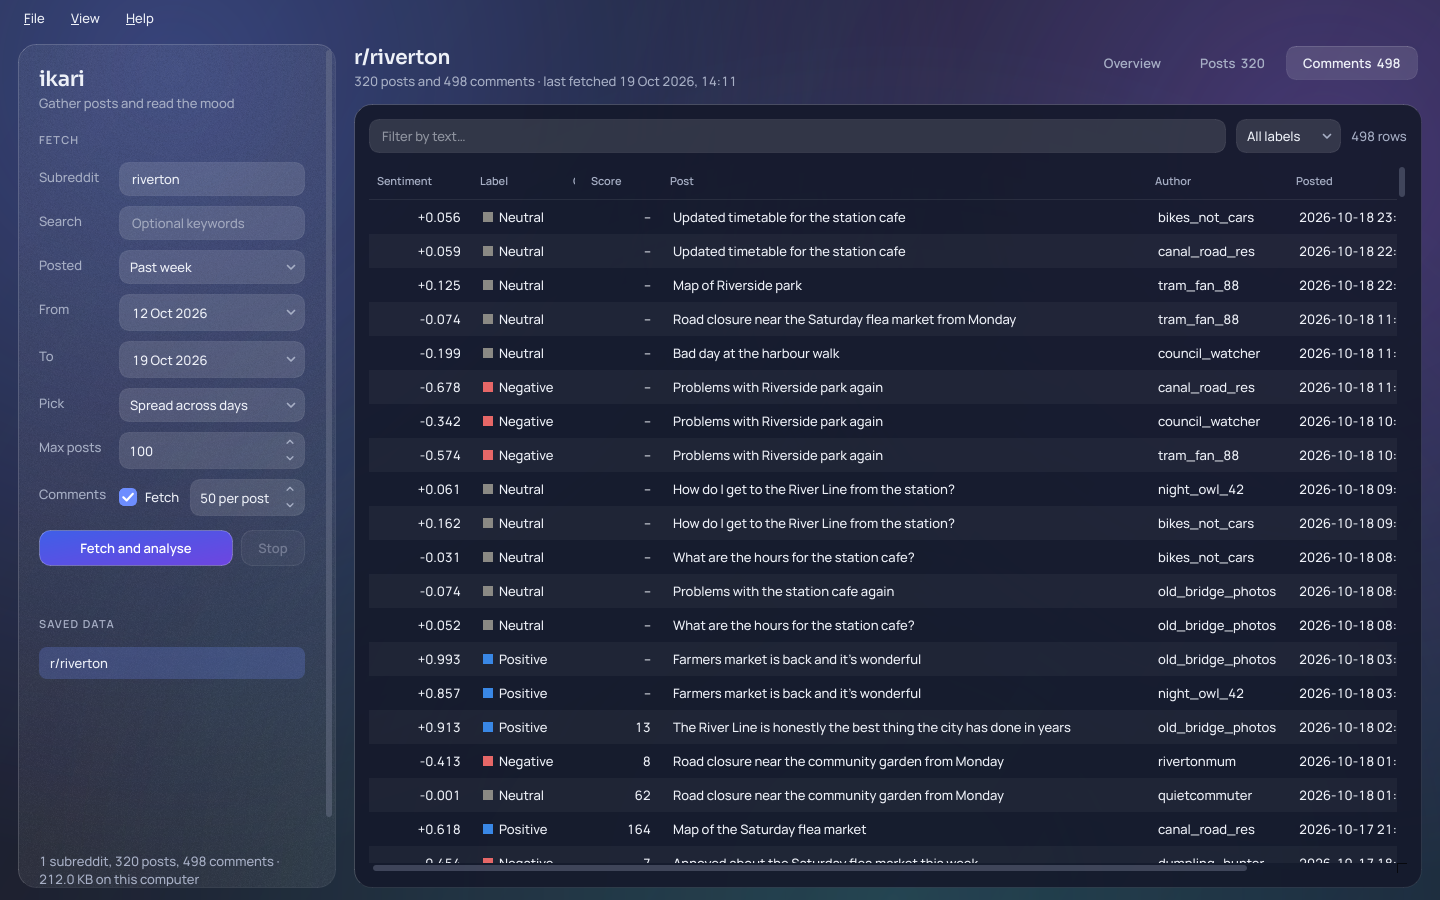
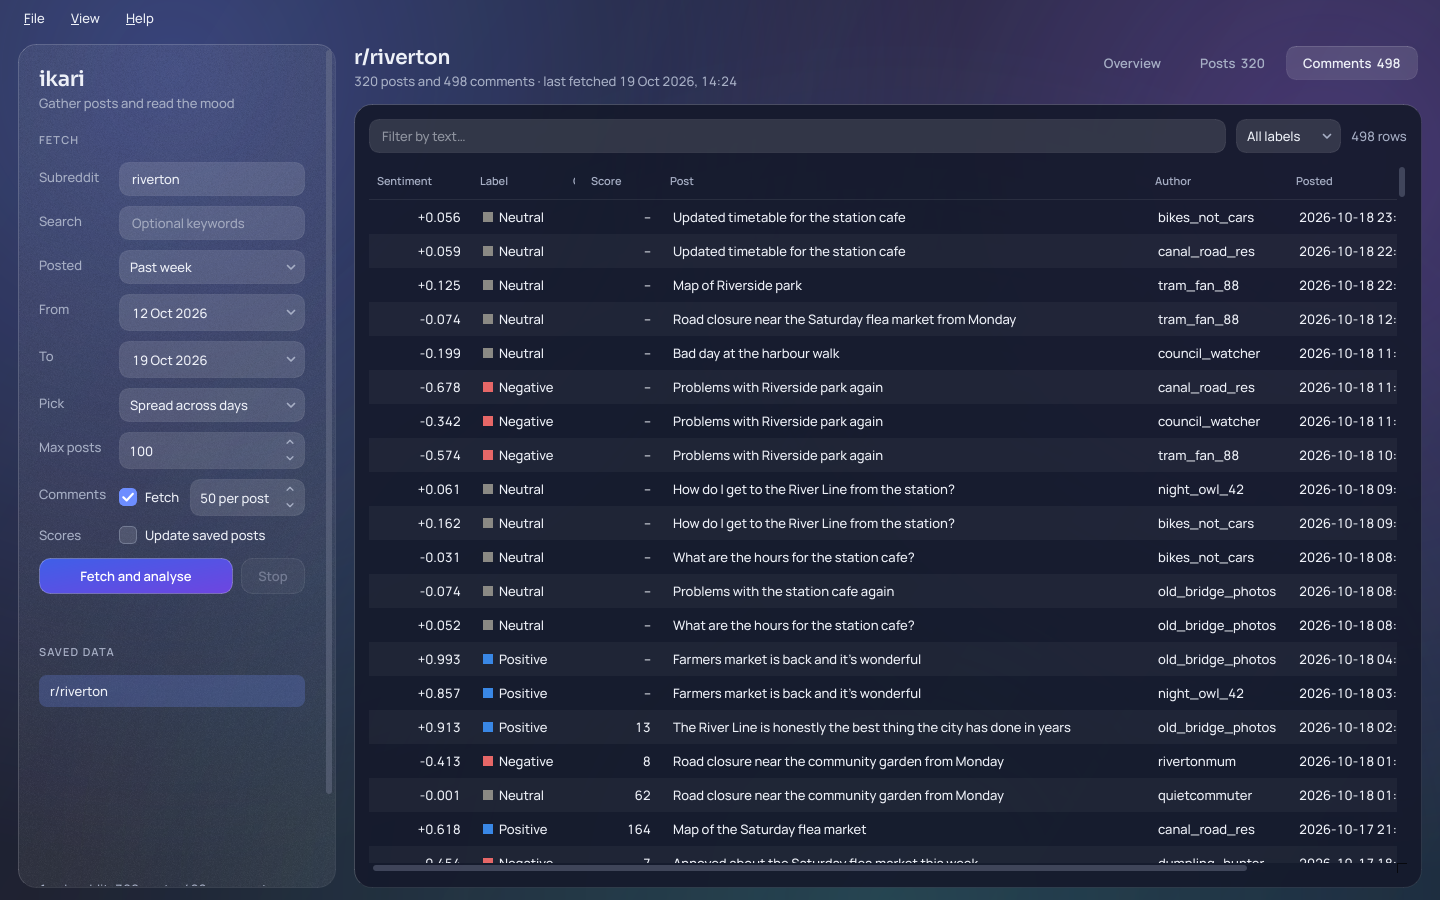
Make the saved-score re-check optional (off by default)
Re-checking every unsettled saved post added requests to every fetch. It now
runs only when Scores: Update saved posts is ticked; the choice is remembered.

Claude-Session: https://claude.ai/code/session_013uKLeA3xiw8RCHxTkK614A

Changed region(s): [[0.0, 0.56, 0.2188, 0.8089], [0.0312, 0.9333, 0.1875, 0.9956]]

diff --git a/src/subsentiment/gui/main_window.py b/src/subsentiment/gui/main_window.py
@@ -33,7 +33,7 @@ RANGES = {"day": ("Past 24 hours", 1), "week": ("Past week", 7), "month": ("Past
 
 # Last-used fetch form, restored at startup. Keys live under "fetch/" in QSettings.
 FETCH_DEFAULTS = {"subreddit": "", "query": "", "range": "week", "from": "", "to": "", "pick": "spread",
-                  "limit": 100, "include_comments": True, "comments_per_post": 50}
+                  "limit": 100, "include_comments": True, "comments_per_post": 50, "refresh_scores": False}
 
 SCOPES = ["Posts and comments", "Posts only", "Comments only"]
 
@@ -450,6 +450,9 @@ class MainWindow(QMainWindow):
         self.comments_per_post = spin_box(1, 500, 10, FETCH_DEFAULTS["comments_per_post"], " per post")
         self.comments_per_post.setMinimumWidth(100)  # its size hint would squeeze the form's labels
         self.include_comments.toggled.connect(lambda _: self._update_comments_enabled())
+        self.refresh_scores = QCheckBox("Update saved posts")
+        self.refresh_scores.setToolTip("Also re-check saved posts in this range whose scores and comment counts "
+                                       "hadn't come in yet. Takes extra requests, so it's off by default.")
         comments_row = QWidget()
         row = QHBoxLayout(comments_row)
         row.setContentsMargins(0, 0, 0, 0)
@@ -471,6 +474,7 @@ class MainWindow(QMainWindow):
         form.addRow(label("Pick", "muted"), self.pick)
         form.addRow(label("Max posts", "muted"), self.limit)
         form.addRow(label("Comments", "muted"), comments_row)
+        form.addRow(label("Scores", "muted"), self.refresh_scores)
         lay.addLayout(form)
 
         self.fetch_btn = mark(QPushButton("Fetch and analyse"), "primary", True)
@@ -694,6 +698,7 @@ class MainWindow(QMainWindow):
         self.pick.setToolTip(PICKS[self.pick.currentData()][1])
         self.limit.setValue(v["limit"])
         self.include_comments.setChecked(v["include_comments"])
+        self.refresh_scores.setChecked(v["refresh_scores"])
         self.comments_per_post.setValue(v["comments_per_post"])
         self._update_comments_enabled()
 
@@ -704,6 +709,7 @@ class MainWindow(QMainWindow):
                      "to": self.date_to.date().toString(Qt.DateFormat.ISODate),
                      "pick": self.pick.currentData(),
                      "limit": self.limit.value(), "include_comments": self.include_comments.isChecked(),
+                     "refresh_scores": self.refresh_scores.isChecked(),
                      "comments_per_post": self.comments_per_post.value()}.items():
             self.settings.setValue(f"fetch/{k}", v)
 
@@ -715,7 +721,7 @@ class MainWindow(QMainWindow):
         if busy:
             self.progress.setRange(0, 0)
         for w in (self.subreddit, self.query, self.range, self.date_from, self.date_to, self.pick,
-                  self.limit, self.include_comments):
+                  self.limit, self.include_comments, self.refresh_scores):
             w.setEnabled(not busy)
         self._update_comments_enabled()
         self._update_delete_enabled()  # don't delete rows the fetch thread is writing
@@ -744,7 +750,7 @@ class MainWindow(QMainWindow):
         after, before = range_bounds(self.range.currentData(), self.date_from.date(), self.date_to.date())
         req = collect.FetchRequest(
             subreddit=name, after=after, before=before, limit=self.limit.value(), query=self.query.text().strip(),
-            include_comments=self.include_comments.isChecked(),
+            include_comments=self.include_comments.isChecked(), refresh_scores=self.refresh_scores.isChecked(),
             comments_per_post=self.comments_per_post.value(), top=self.pick.currentData() == "top")
         self.request = req
         self.thread = QThread(self)

diff --git a/tests/test_collect.py b/tests/test_collect.py
@@ -47,11 +47,18 @@ def store_with(tmp_path, posts, comments_for=()):
 def test_unsettled_saved_posts_are_refreshed_in_one_batch_and_get_comments(tmp_path):
     s = store_with(tmp_path, [mk(1, score=None, num_comments=None), mk(2)], comments_for=["p1", "p2"])
     c = FakeClient(by_id=[mk(1, score=77, num_comments=5)])
-    result = collect.run(c, s, collect.FetchRequest("python"))
+    result = collect.run(c, s, collect.FetchRequest("python", refresh_scores=True))
     assert c.calls[0] == ("ids", ["p1"])
     assert {r["id"]: r["score"] for r in s.posts("python")} == {"p1": 77, "p2": 10}
     assert result.updated == 1 and result.posts == 0
     assert ("comments", "p1") in c.calls and ("comments", "p2") not in c.calls
+
+
+def test_saved_scores_are_only_rechecked_when_asked(tmp_path):
+    s = store_with(tmp_path, [mk(1, score=None, num_comments=None)], comments_for=["p1"])
+    c = FakeClient(by_id=[mk(1, score=77)])
+    result = collect.run(c, s, collect.FetchRequest("python"))
+    assert not any(call[0] == "ids" for call in c.calls) and result.updated == 0
 
 
 def test_an_even_sample_skips_saved_posts(tmp_path):

diff --git a/src/subsentiment/collect.py b/src/subsentiment/collect.py
@@ -24,6 +24,7 @@ class FetchRequest:
     include_comments: bool = True
     comments_per_post: int = 50
     top: bool = False  # highest-scored posts of each part of the range, instead of an even sample
+    refresh_scores: bool = False  # also re-check saved posts whose scores hadn't settled
 
 
 @dataclass
@@ -51,8 +52,8 @@ def run(client: ArcticShiftClient, store: Store, req: FetchRequest,
     name = normalize_subreddit(req.subreddit)
     stored = {r["id"]: r for r in store.posts_between(name, req.after, req.before)}
 
-    # 1. Saved posts from this range whose scores weren't settled yet: re-fetch them in batches.
-    stale = [pid for pid, r in stored.items() if r["score"] is None]
+    # 1. If asked, saved posts from this range whose scores weren't settled yet: re-fetch them in batches.
+    stale = [pid for pid, r in stored.items() if r["score"] is None] if req.refresh_scores else []
     updated: list[Post] = []
     if stale:
         note(f"Checking {len(stale):,} saved posts for updated scores…")

diff --git a/tests/test_main_window.py b/tests/test_main_window.py
@@ -51,6 +51,8 @@ def test_fetch_form_and_viewed_dataset_are_restored(make_window):
     w.limit.setValue(250)
     w.include_comments.setChecked(False)
     w.comments_per_post.setValue(20)
+    assert not w.refresh_scores.isChecked()  # off by default
+    w.refresh_scores.setChecked(True)
     w.datasets.setCurrentRow([w.datasets.item(i).text() for i in range(w.datasets.count())].index("r/Python"))
     w.tabbar.setCurrentIndex(1)
     w.close()
@@ -62,6 +64,7 @@ def test_fetch_form_and_viewed_dataset_are_restored(make_window):
     assert (again.limit.value(), again.include_comments.isChecked(), again.comments_per_post.value()) == (250, False, 20)
     assert again.pick.currentData() == "top" and "36 hours" in again.pick.toolTip()
     assert not again.comments_per_post.isEnabled()
+    assert again.refresh_scores.isChecked()
     assert again.current == "Python" and again.tabbar.currentIndex() == 1
 
 

diff --git a/src/subsentiment/gui/models.py b/src/subsentiment/gui/models.py
@@ -13,7 +13,7 @@ from subsentiment.gui.charts import palette
 SORT_ROLE = Qt.ItemDataRole.UserRole + 1
 NUMERIC = ("sentiment", "score", "num_comments")
 PENDING = ("score", "num_comments")  # None until Arctic Shift re-fetches the item, about 36 hours in
-PENDING_TIP = "Arctic Shift fills this in about 36 hours after posting. Fetch this range again later to update it."
+PENDING_TIP = "Arctic Shift fills this in about 36 hours after posting. Fetch this range again later with Update saved posts ticked."
 HEADER_TIP = ("From the Arctic Shift archive of Reddit. These appear once the archive re-checks a post, usually "
               "36 hours after posting; a dash means not yet.")
 FADE_SECONDS = 0.9  # rows that arrive during a fetch fade in over this long

diff --git a/README.md b/README.md
@@ -208,7 +208,8 @@ Things to know about the archive:
 - **Scores and comment counts arrive late.** The archive saves each post within seconds, then fetches
   it again later, usually about 36 hours after posting and sometimes up to a week. Until then
   Reddit's numbers aren't known, so the Score and Comments columns show a dash. The next fetch of that
-  range re-checks those posts in batches of 500 and fills them in.
+  range fills them in if **Scores: Update saved posts** is ticked; it re-checks those posts in batches
+  of 500. It's off by default because it adds requests to every fetch.
 - **Requests are rate limited and shared.** Every request in a fetch (posts, score updates and
   comments) goes through one limiter, at most one a second. When the archive says to slow down
   (HTTP 429) ikari waits as long as it asks and spaces later requests further apart; it also backs
